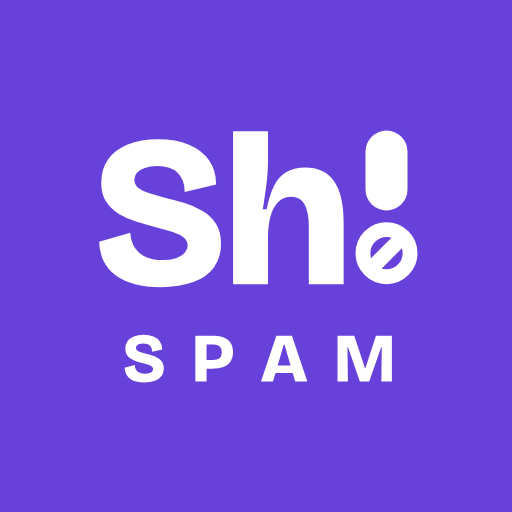
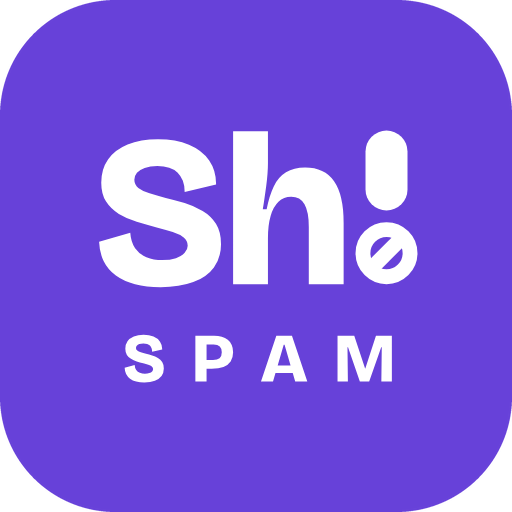
Vitrine: ícone arredondado e resumo em inglês

diff --git a/README.md b/README.md
@@ -1,5 +1,5 @@
 <p align="center">
-  <img src="imagens/icone.png" width="96" alt="Ícone do ShutUp!">
+  <img src="imagens/icone.png" width="112" alt="Ícone do ShutUp!">
 </p>
 
 <h1 align="center">ShutUp!</h1>
@@ -9,7 +9,8 @@
 <p align="center">
   Em breve na Google Play ·
   <a href="https://goklahlabs.com.br/shutup">Página do app</a> ·
-  <a href="CHANGELOG.md">Novidades</a>
+  <a href="CHANGELOG.md">Novidades</a> ·
+  <a href="#english">English</a>
 </p>
 
 ![ShutUp!](imagens/destaque.png)
@@ -70,6 +71,23 @@ O ShutUp! não tem permissão de internet: nada sai do seu celular. Não tem con
 - **Algo não funcionou?** Abra um [Problema](../../issues/new/choose), dizendo a versão do app e o modelo do celular. **Não coloque números de telefone completos**: escreva só o DDD ou o começo, como (11) 9XXXX-XXXX.
 - **Tem uma ideia?** Abra uma [Sugestão](../../issues/new/choose).
 - **Dúvidas:** escreva para **support@goklahlabs.com.br**, ou use o "Fale conosco" nos Ajustes do app.
+- **Achou uma falha de segurança?** Não abra issue pública: escreva para **support@goklahlabs.com.br**. Veja o [SECURITY.md](SECURITY.md).
+
+---
+
+<a id="english"></a>
+
+## English
+
+**ShutUp! lets you choose who can't call you.** A call blocker for Android, made for Brazilian phone numbers. The app is in Portuguese.
+
+- Block calls by **area code (DDD)**, a whole state at once or every area code outside your state; by a **full number** or every number that **starts the same way**; from **other countries**; or from **anyone who is not in your contacts**.
+- For each rule, choose **Block** (the call is rejected before it rings) or **Silence** (it arrives without sound and stays in missed calls).
+- Your **contacts always ring**, and so do the numbers you allow. Pause blocking for 1 hour, 3 hours or until 8 a.m.
+- **History** grouped by number, with the rule that acted, and allow a number in one tap.
+- Free, no ads, no account and **no internet permission**: nothing leaves your phone. Android 10 or newer. It can't block hidden numbers: Android doesn't let apps do that.
+
+Coming soon to Google Play · [App page](https://goklahlabs.com.br/shutup) · Problems and ideas: [issues](../../issues/new/choose) (never post full phone numbers) · Security reports: support@goklahlabs.com.br (never in a public issue).
 
 ---
 
